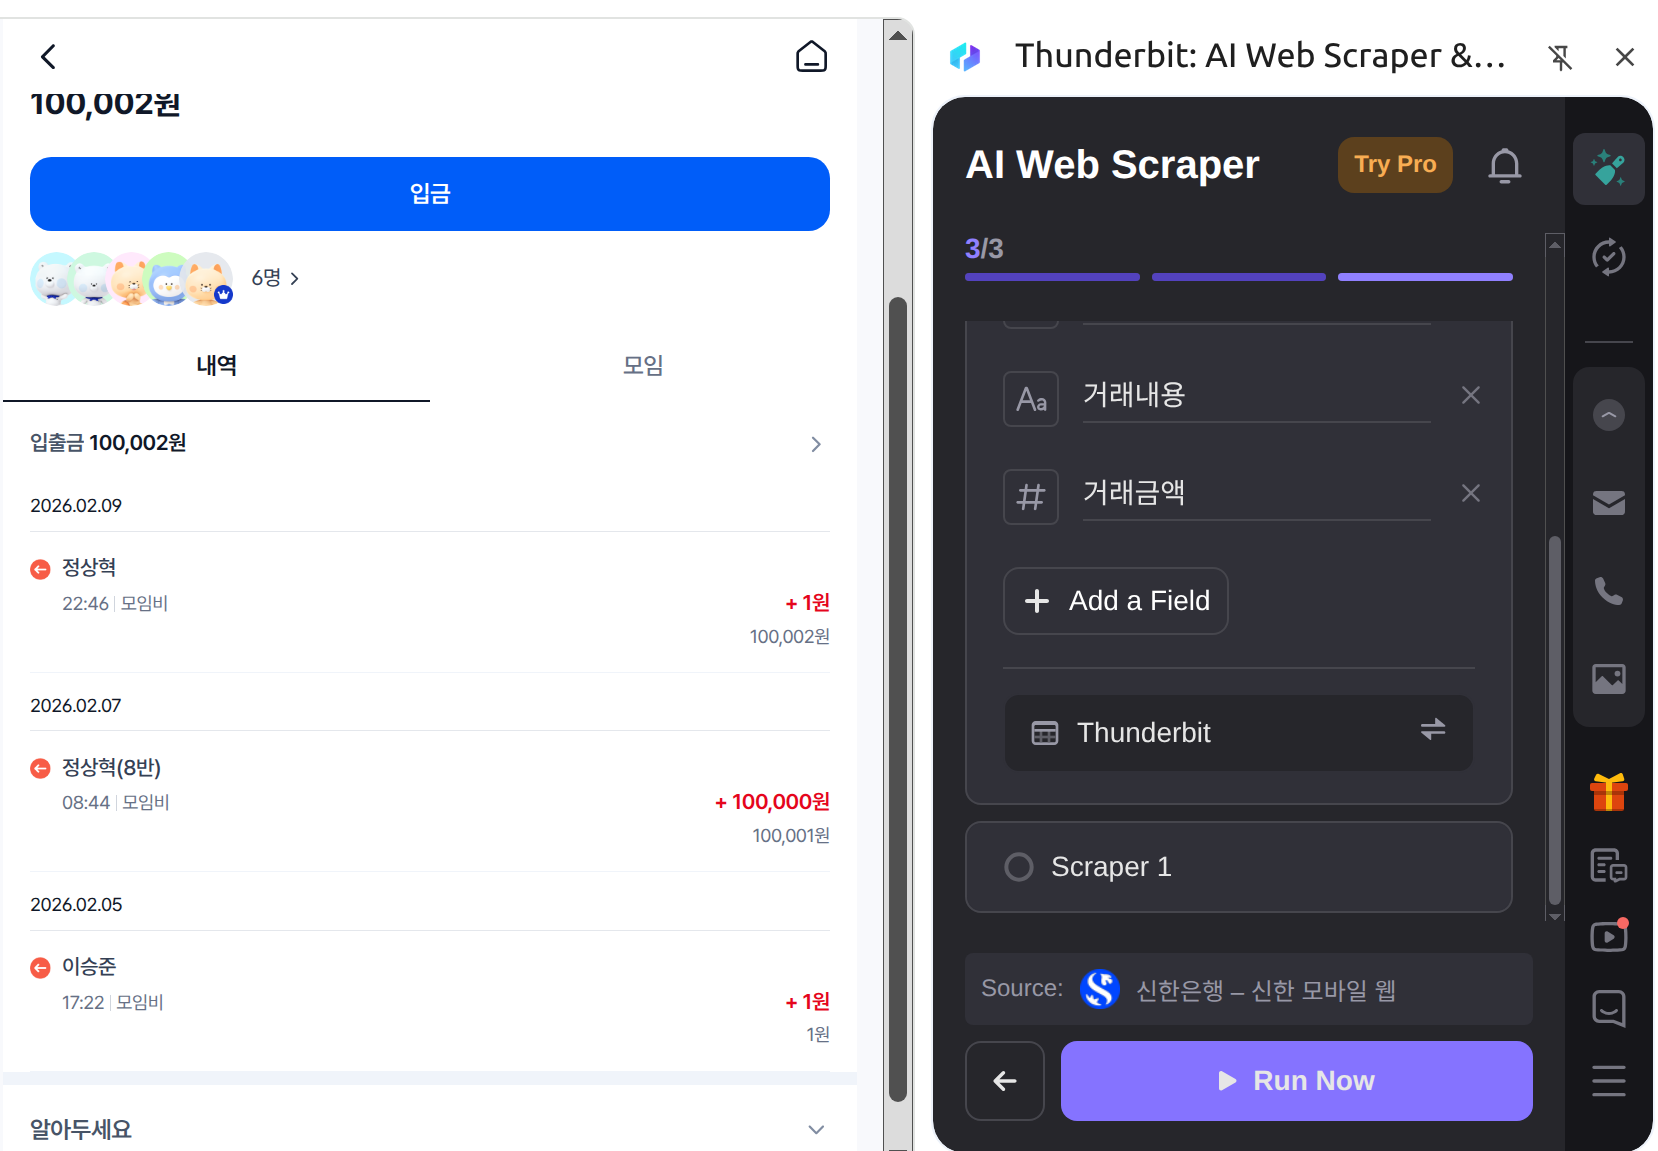
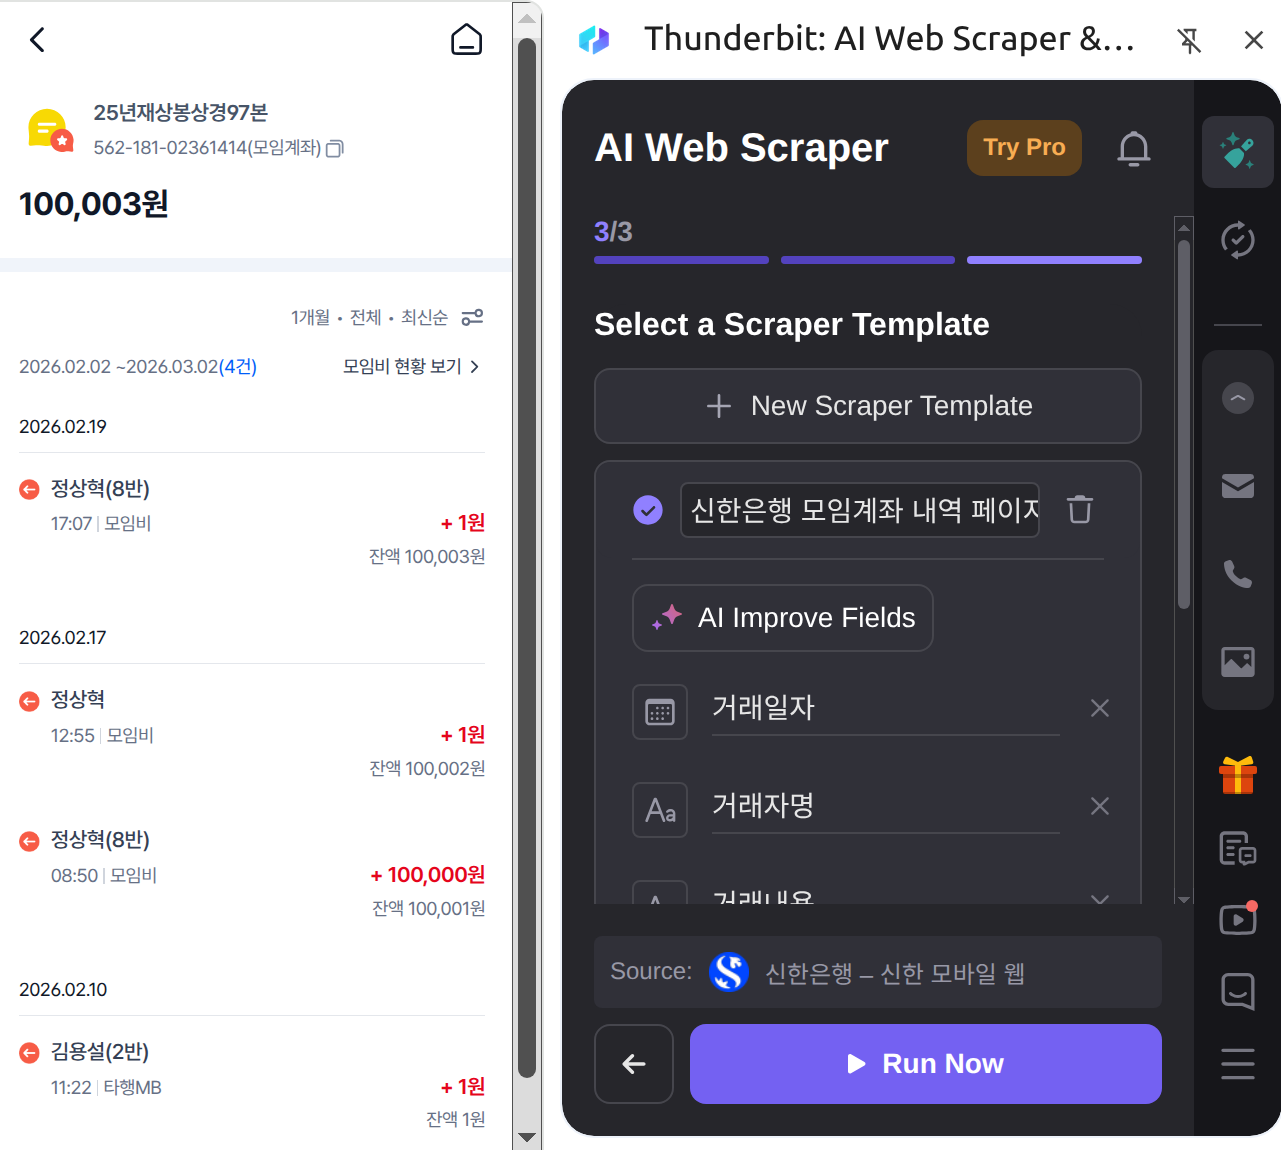
Add Google Sheets transformation guide and update docs
- Add TRANSFORMATION_BY_CLAUDE.md: Claude Code를 활용한 입금내역 → 모금양식 변환 가이드
- Update README.md with link to transformation guide in 후속 작업 section
- Add 오픈뱅킹 API section to ALTERNATIVE.md
- Update thunderbit screenshot

diff --git a/TRANSFORMATION_BY_CLAUDE.md b/TRANSFORMATION_BY_CLAUDE.md
@@ -1,0 +1,119 @@
+# Claude Code를 이용한 Google Sheet에서 입금내역 → 모금양식 자동 변환
+
+Claude Code에서 Google Sheets 문서의 '입금내역' 시트를 읽어 '모금양식' 시트에 데이터를 채우는 작업 가이드입니다.
+
+## 사전 준비
+
+### 1. Google Cloud 프로젝트 설정
+
+1. https://console.cloud.google.com 에서 프로젝트 생성 (또는 기존 프로젝트 선택)
+2. **Google Sheets API 활성화**
+   - https://console.cloud.google.com/apis/library/sheets.googleapis.com 에서 "사용" 클릭
+3. **OAuth 동의 화면 설정**
+   - https://console.cloud.google.com/apis/credentials/consent
+   - External 선택 → 앱 이름, 이메일 등 필수 정보 입력
+   - Audience 섹션에서 본인 Gmail을 **테스트 사용자**로 추가
+4. **OAuth 클라이언트 ID 생성**
+   - https://console.cloud.google.com/apis/credentials → "사용자 인증 정보 만들기" → "OAuth 클라이언트 ID"
+   - 유형: **데스크톱 앱** (또는 웹 애플리케이션)
+   - 생성 후 **Client ID**와 **Client Secret** 확인
+
+### 2. credentials.json 파일 생성
+
+아래 경로에 파일을 생성합니다:
+
+```
+~/.agents/skills/gmail-skill/credentials.json
+```
+
+```json
+{
+  "installed": {
+    "client_id": "YOUR_CLIENT_ID.apps.googleusercontent.com",
+    "client_secret": "YOUR_CLIENT_SECRET",
+    "auth_uri": "https://accounts.google.com/o/oauth2/auth",
+    "token_uri": "https://oauth2.googleapis.com/token",
+    "redirect_uris": ["http://localhost"]
+  }
+}
+```
+
+> 이미 gmail-skill 등 다른 Google skill에서 이 파일을 만들어 두었다면 그대로 재사용 가능합니다.
+
+### 3. google-sheets skill 설치
+
+Claude Code에서 google-sheets skill이 설치되어 있어야 합니다. 설치 방법:
+
+```
+/install-skill google-sheets
+```
+
+### 4. Python 라이브러리
+
+최초 실행 시 Claude Code가 자동으로 venv를 만들고 필요한 패키지를 설치합니다:
+
+- `google-auth`, `google-api-python-client`, `requests`
+
+## 실행 방법
+
+### 1. 대상 Google Sheets 문서 준비
+
+A, B 두 문서 모두 **네이티브 Google Sheets 형식**이어야 합니다.
+Google Drive에 업로드된 `.xlsx` 파일은 Sheets API로 직접 읽고 쓸 수 없어 오류가 발생합니다.
+
+#### 문서 형식 확인 방법
+
+Google Drive에서 파일을 열었을 때 상단에 `.xlsx` 표시가 보이면 Excel 형식입니다.
+
+#### Excel 파일을 Google Sheets로 변환하는 방법
+
+1. Google Drive에서 해당 `.xlsx` 파일을 더블 클릭하여 열기
+2. 상단 메뉴에서 **파일** → **Google 스프레드시트로 저장** 클릭
+3. 새로 생성된 Google Sheets 문서의 URL을 사용
+
+> 변환 후 원본 `.xlsx` 파일과 변환된 Google Sheets 파일이 Drive에 별도로 존재하게 됩니다. 작업 시 변환된 문서의 URL을 사용해야 합니다.
+
+### 2. Claude Code에 프롬프트 입력 예시
+
+```
+A 문서의 데이터를 B 문서로 옮기려고해.
+
+A. https://docs.google.com/spreadsheets/d/{입금내역_SPREADSHEET_ID}/
+B. https://docs.google.com/spreadsheets/d/{모금양식_SPREADSHEET_ID}/
+
+A문서의 데이터를 B문서의 '모금양식' sheet로 데이터를 채워줘.
+
+'단과대학', '학부분반', '성명', '금액'란만 채워줘.
+'단과대학'은 '{단과대학명}'으로 모두 동일하게 해줘.
+
+'입급내역' sheet에서 입금자는 '이름(학부분반)' 형식으로 되어 있어.
+'학부분반' 컬럼에는 '{단과약칭}8반'과 같은 식으로 앞에 '{단과약칭}'을 붙여줘. '(반)'이 없이 입금한 사람은 그냥 이름만 옮겨줘.
+이름 부분이 동일한 사람은 금액을 합쳐서 1행으로 만들어줘.
+
+두 Sheet의 총액이 동일한지로 결과를 검증해줘.
+```
+
+**Placeholder 설명:**
+
+| Placeholder | 예시 | 설명 |
+|-------------|------|------|
+| `{입금내역_SPREADSHEET_ID}` | `11pBbHQViJ47T3TUqI2zNzUWBurhy7Xpz4NNmDUjUp5o` | 입금내역이 있는 원본 문서 ID |
+| `{모금양식_SPREADSHEET_ID}` | `1HYHYYUM63zIdSpKjFrc94khtau-0FYUFOgd-u_pdvyY` | 모금양식을 채울 대상 문서 ID |
+| `{단과대학명}` | `상경대학` | 단과대학 컬럼에 채울 값 |
+| `{단과약칭}` | `상경` | 학부분반 앞에 붙일 접두어 |
+
+### 3. 실행 중 동작
+
+1. **OAuth 인증**: 브라우저가 자동으로 열리며 Google 계정 로그인을 요청합니다. 로그인 후 권한을 승인하면 자동으로 진행됩니다.
+   - 최초 1회만 필요하며, 이후에는 저장된 토큰으로 자동 인증됩니다.
+   - 토큰이 만료되면 자동 갱신됩니다.
+2. **데이터 읽기**: Sheets API로 '입금내역' 시트를 읽습니다.
+3. **데이터 가공**: 이름별로 금액을 합산하고, 학부분반 정보를 파싱합니다.
+4. **데이터 쓰기**: Sheets API로 '모금양식' 시트에 결과를 씁니다.
+5. **검증**: 양 시트의 총액이 일치하는지 확인합니다.
+
+## 주의사항
+
+- 대상 스프레드시트에 대한 **편집 권한**이 있어야 합니다.
+- '모금양식' 시트의 기존 데이터가 있는 행에 덮어쓰게 됩니다.
+- Google Sheets API가 Google Cloud 프로젝트에서 **활성화**되어 있어야 합니다. 비활성 상태면 403 오류가 발생하며, 활성화 후 전파까지 수십 초가 걸릴 수 있습니다.

diff --git a/ALTERNATIVE.md b/ALTERNATIVE.md
@@ -23,3 +23,8 @@ https://ifttt.com/ 를  활용하면 가능한 방법입니다.
 ## Claude in Chrome (불가능)
 신한은행 모바일 페이지에서 'Claude in Chrome' extension을 열면 '이 페이지에 액세스할 수 없습니다
 Claude는 이 페이지의 콘텐츠를 지원할 수 없습니다.'라는 메시지만 나옵니다.
+
+## 오픈뱅킹 API (가능할 수도 있으니 시간과 노력이 과도하게 들어감)
+
+* 오픈뱅킹 API( https://developers.kftc.or.kr/dev/openapi/open-banking/oauth )를 통해서 Server to Server API를 호출하는 방법도 검토했으나, 행정적으로 복잡한 절차가 필요해보입니다.
+테스트용으로 발급받는 키로는 실계좌에 접근이 되지 않습니다.
